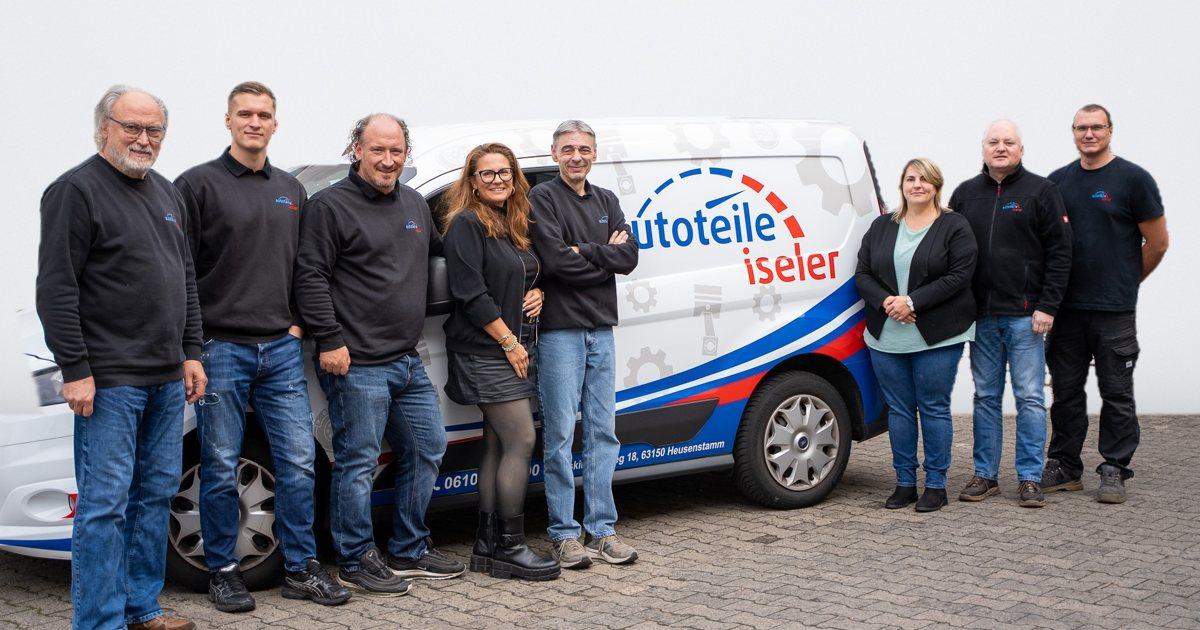
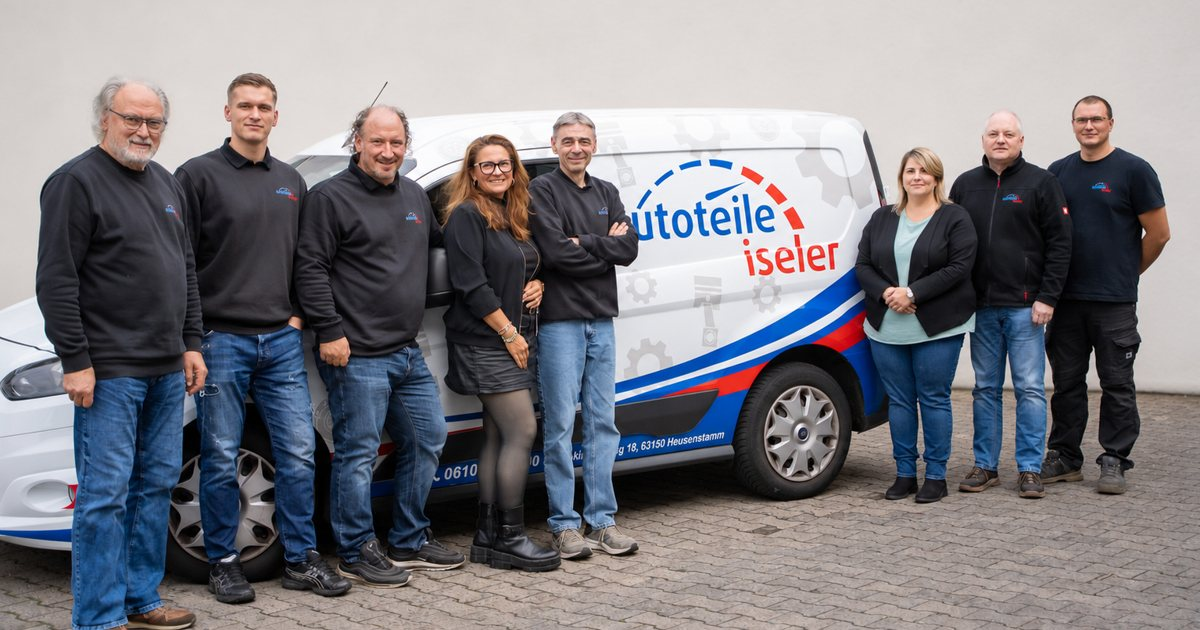
feat: Gruppenfoto mit von Codex erneuertem Hintergrund

diff --git a/index.html b/index.html
@@ -119,7 +119,7 @@ if(document.documentElement.dataset.theme==='light')document.querySelector('meta
 <section class="team" id="team">
   <h2 class="section-title">Unser Team</h2>
   <p class="team-lede">Von der Beratung über das Lager bis zur Buchhaltung: Bei uns kennen Sie die Menschen, die sich um Ihre Teile kümmern.</p>
-  <figure class="team-group"><img src="assets/img/team-gruppe-weiss.webp" srcset="assets/img/team-gruppe-weiss-900.webp 900w, assets/img/team-gruppe-weiss.webp 2048w" sizes="(max-width:1280px) 100vw, 1200px" alt="Das Team von Autoteile Iseler vor dem Lieferwagen" width="2048" height="1368" loading="lazy"></figure>
+  <figure class="team-group"><img src="assets/img/team-gruppe-codex.webp" srcset="assets/img/team-gruppe-codex-900.webp 900w, assets/img/team-gruppe-codex.webp 1535w" sizes="(max-width:1280px) 100vw, 1200px" alt="Das Team von Autoteile Iseler vor dem Lieferwagen" width="1535" height="1025" loading="lazy"></figure>
   <ul class="tags">
     <li class="tag" style="--tilt:-2deg"><div class="tag-photo has-img"><img src="assets/img/team-michael.webp" alt="Michael Iseler" width="640" height="800" loading="lazy"></div><h3>Michael Iseler</h3><p>Geschäftsführung</p></li>
     <li class="tag" style="--tilt:1.5deg"><div class="tag-photo has-img"><img src="assets/img/team-andre.webp" alt="Andre Iseler" width="640" height="800" loading="lazy"></div><h3>Andre Iseler</h3><p>Geschäftsführung</p></li>
